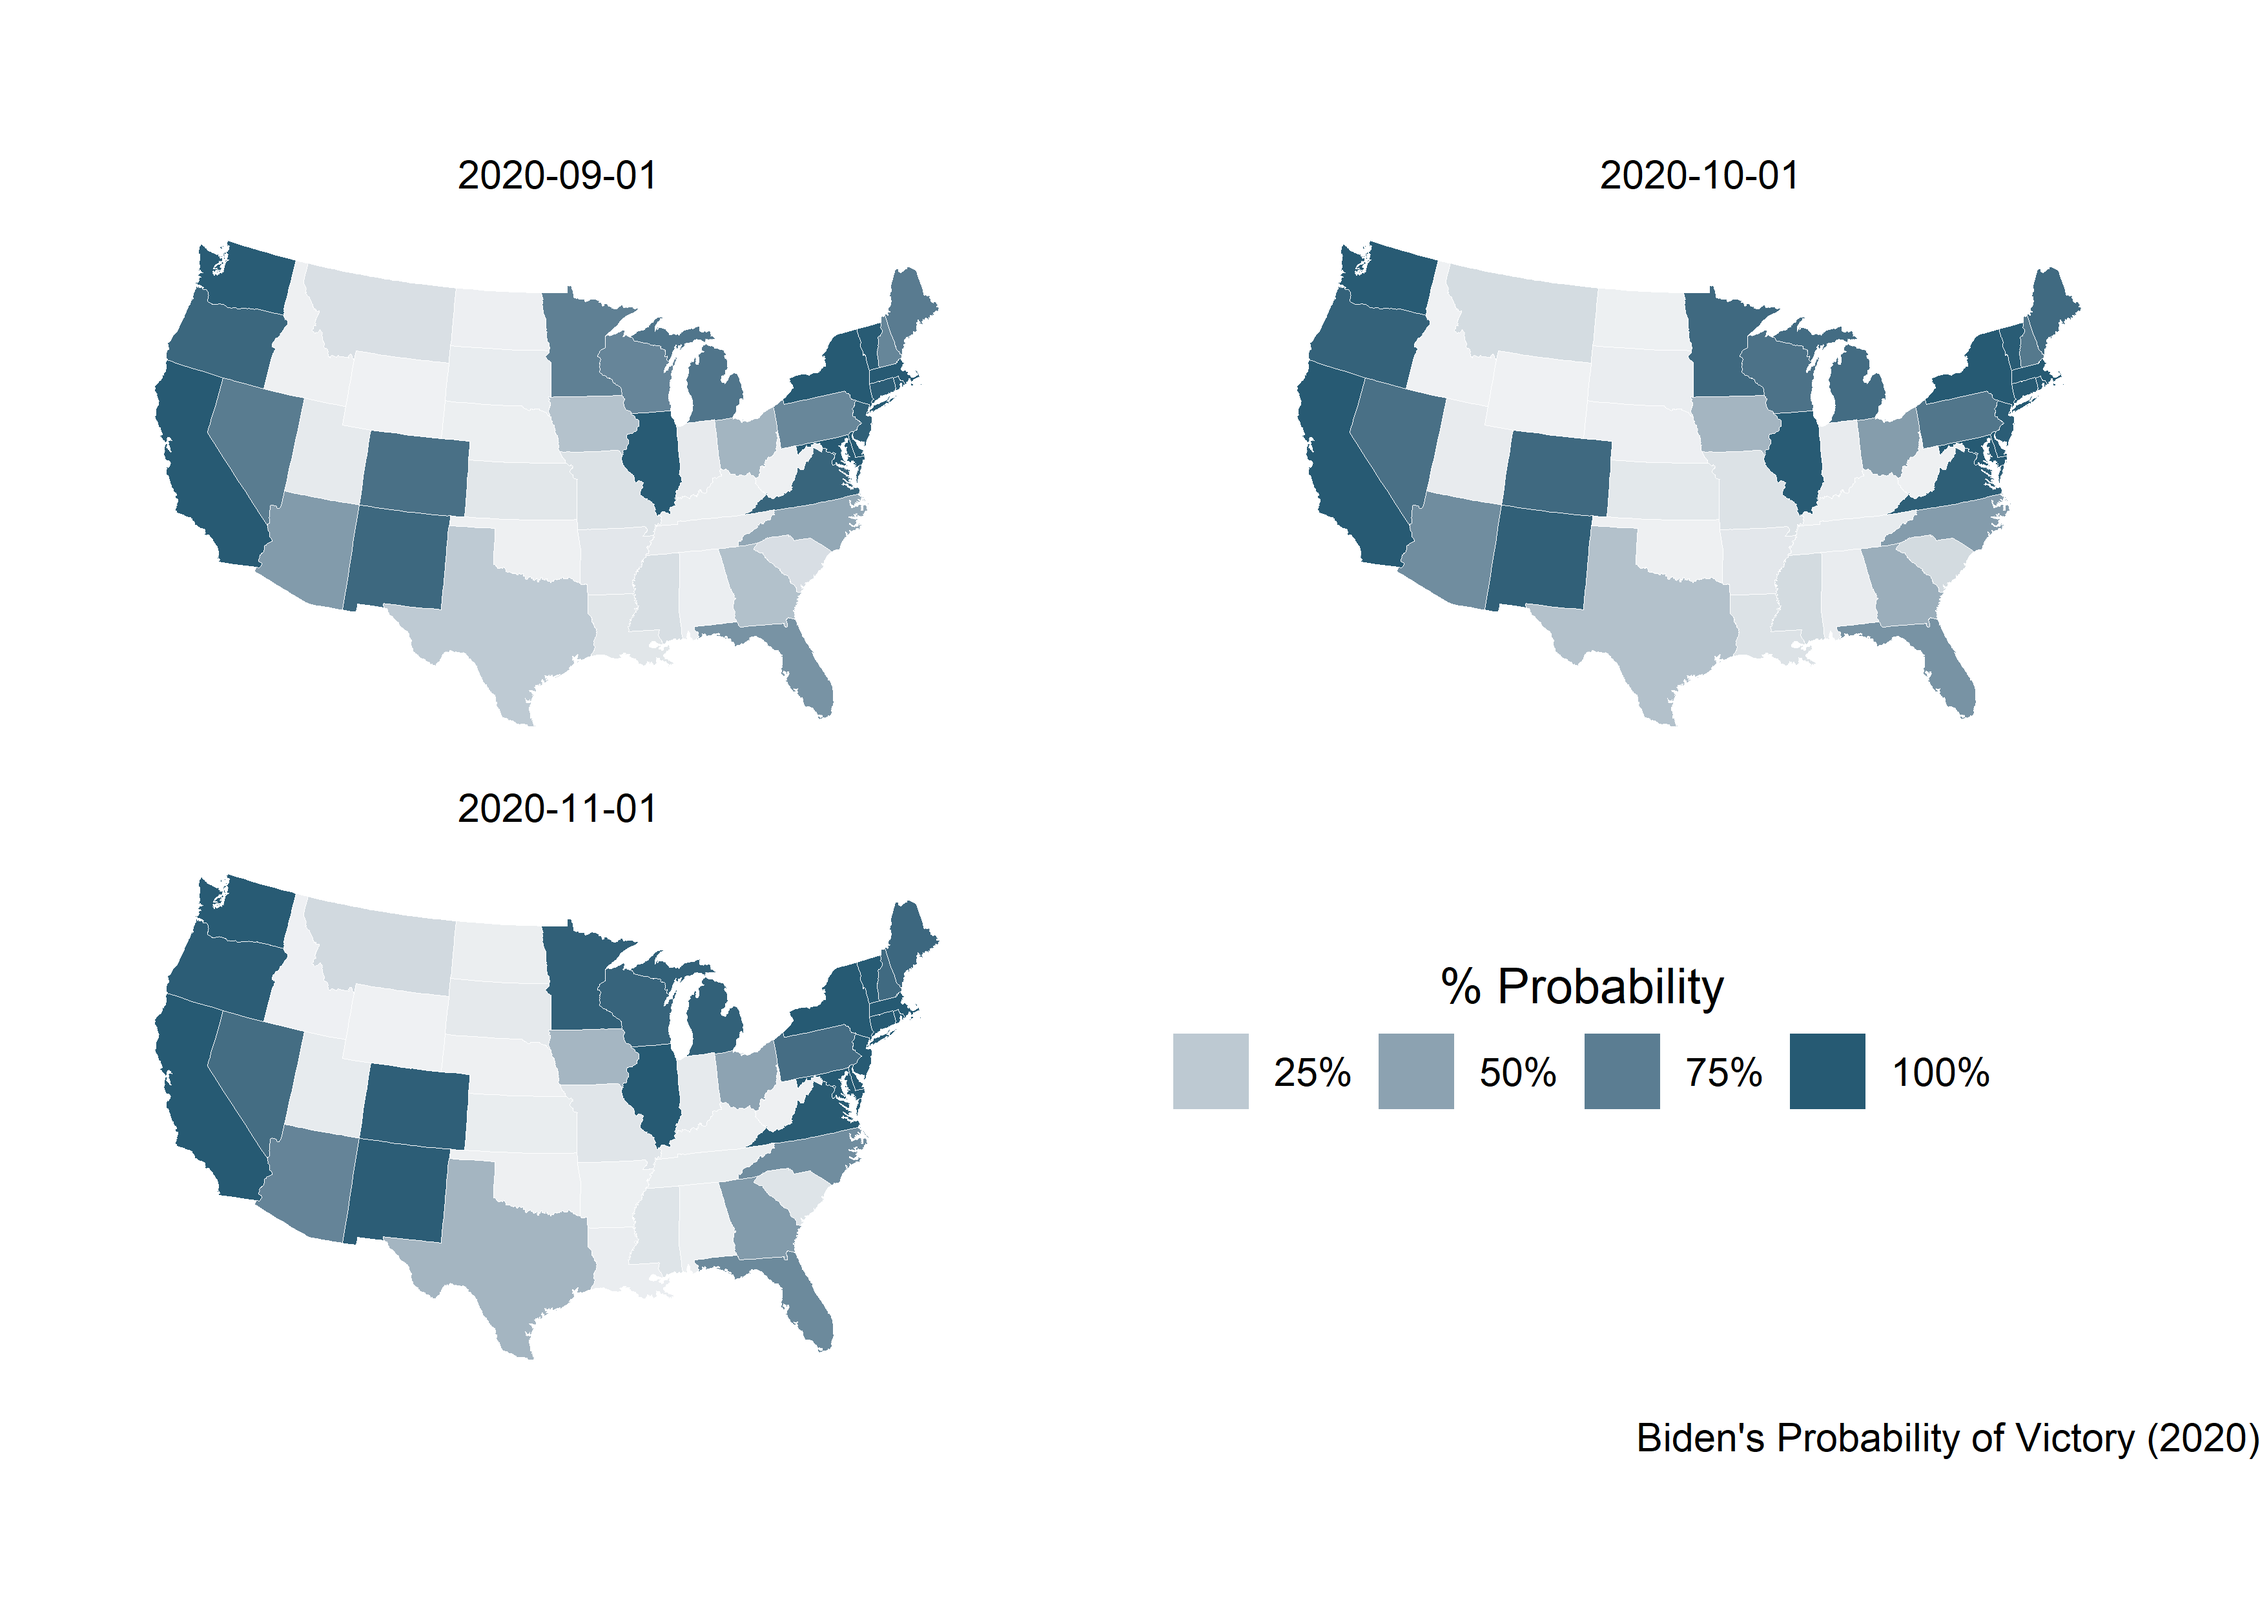
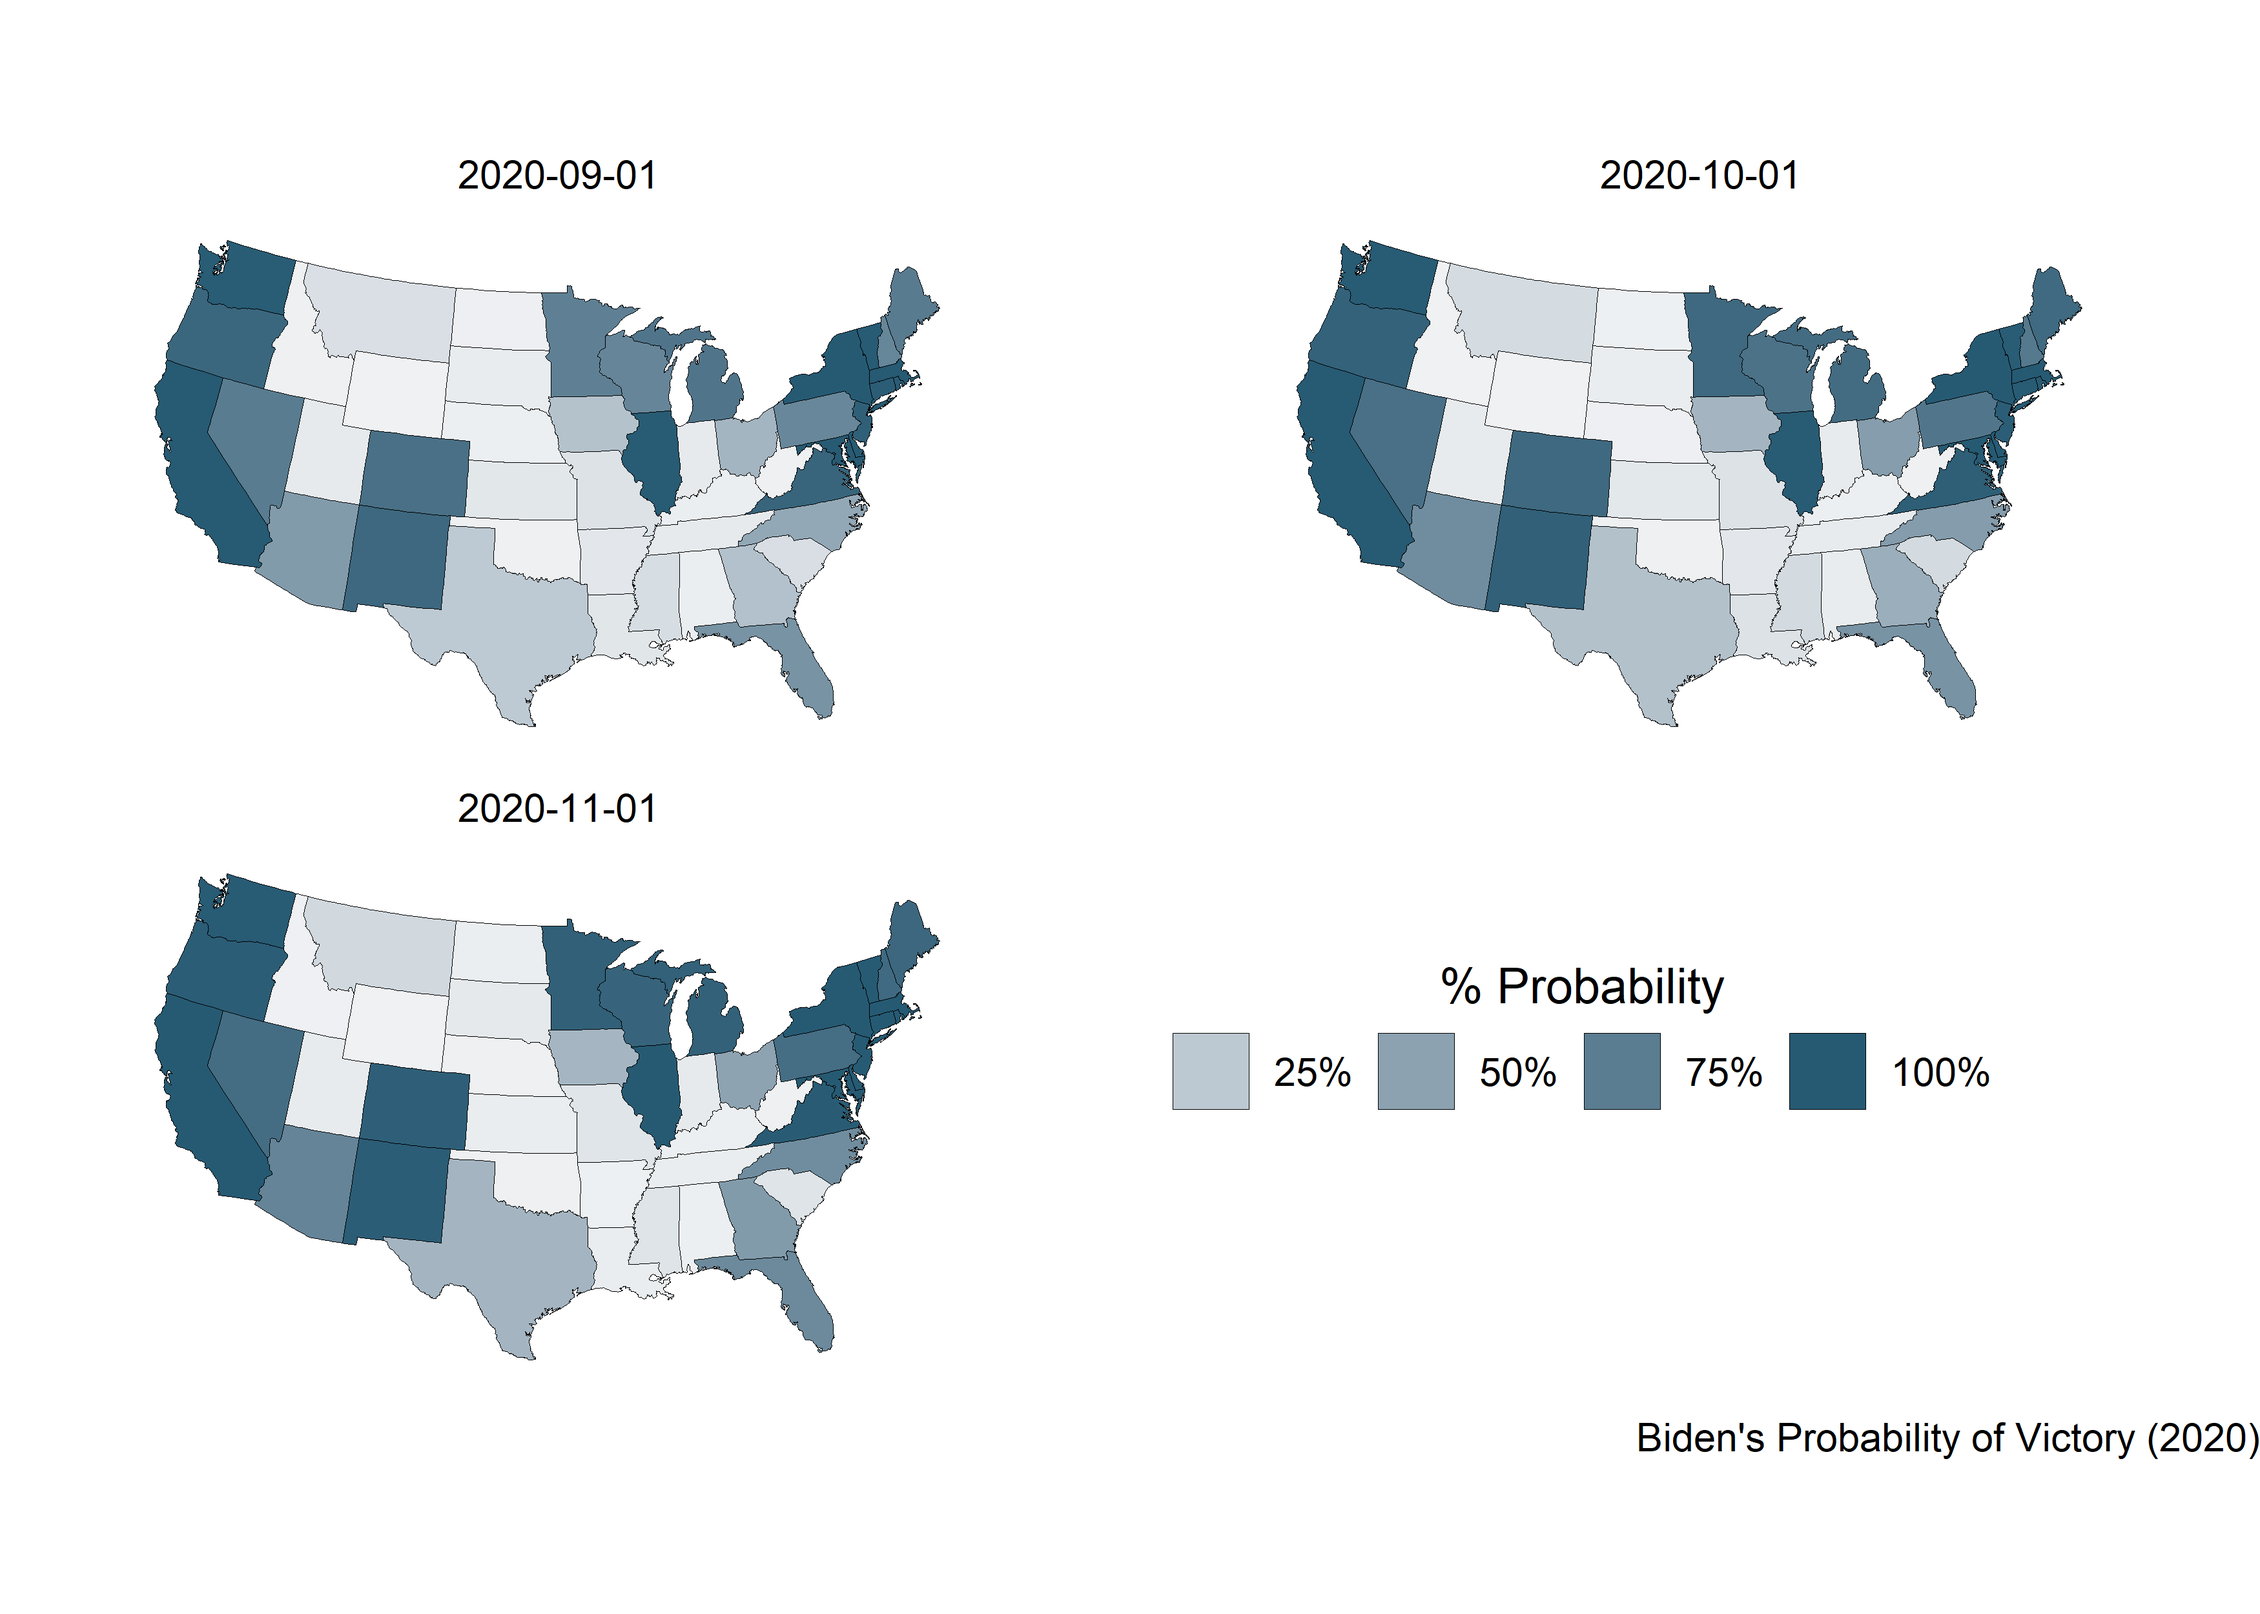
updates

diff --git a/DPR 101/Notes/07_drawing_maps_pt1.md b/DPR 101/Notes/07_drawing_maps_pt1.md
@@ -633,7 +633,7 @@ ggplot(map_forecast_data) +
     fill = probwin
   ) +
   geom_polygon(
-    color = "white",
+    color = "black",
     size = 0.1
   ) +
   facet_wrap(
